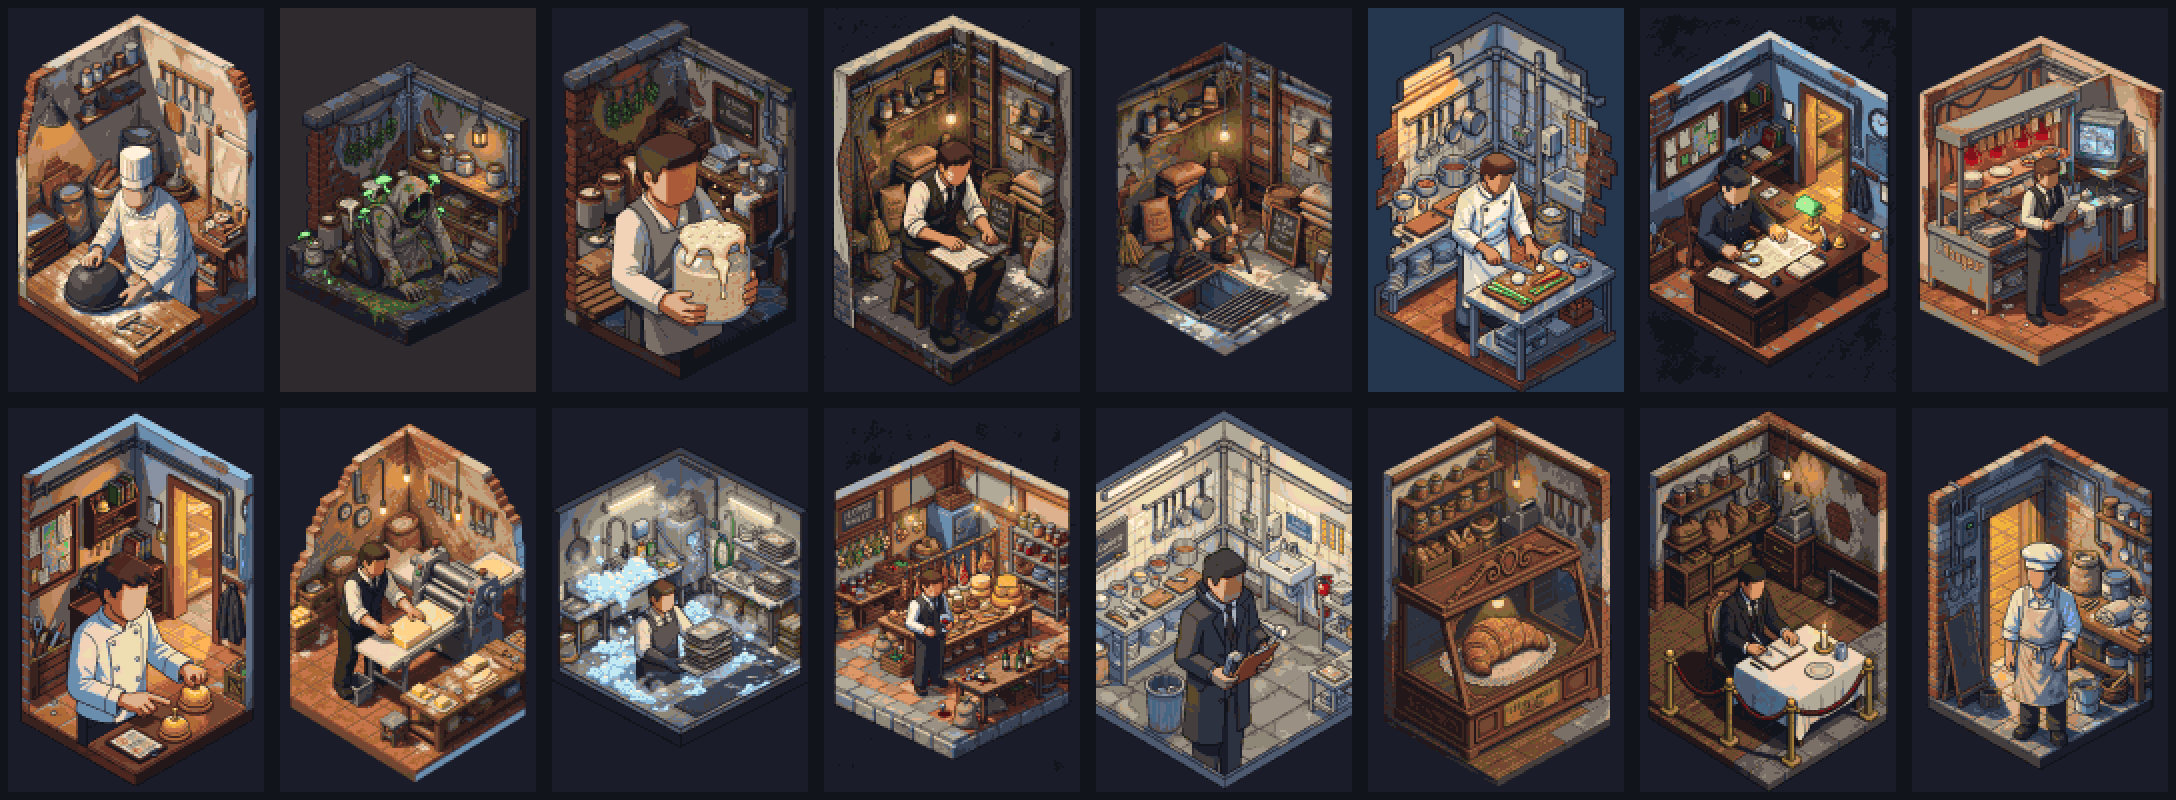
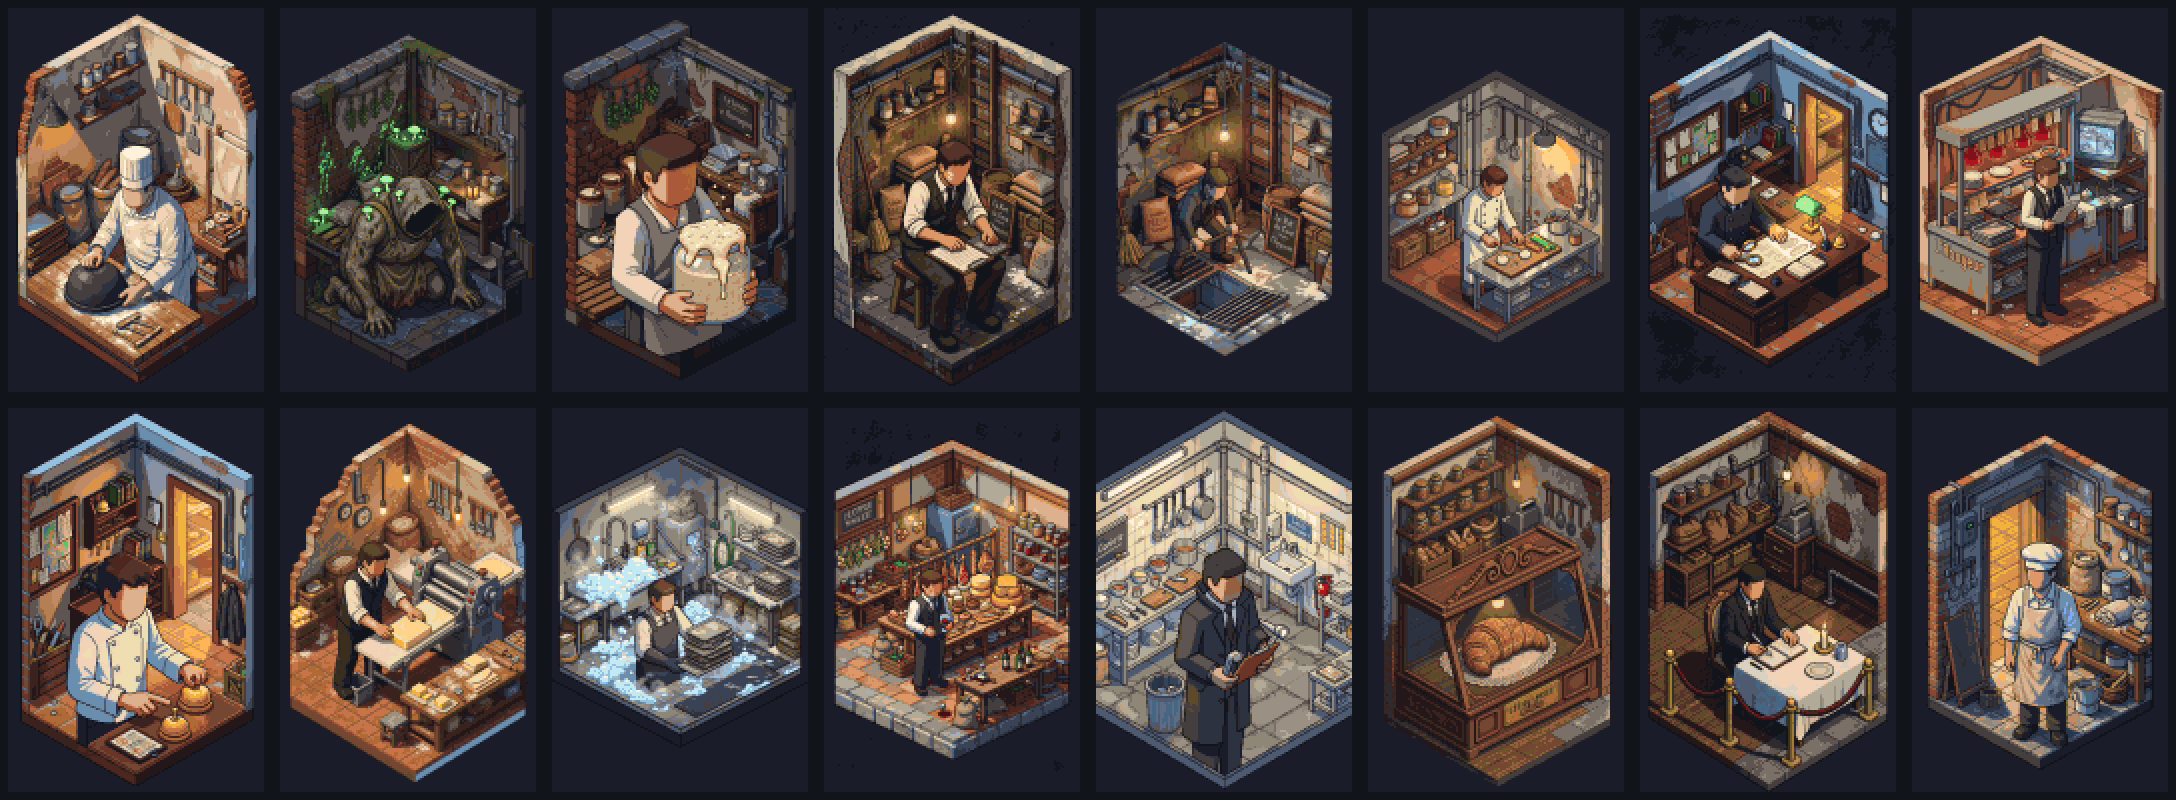
5M: retake the Champignon and Commis portraits and the mini-game cart
The two portraits sat on a grey or blue panel beside the others' navy
void, and mini_cart had come out as a shelf rack. Six images and one
background removal, 16 credits; CREDITS and MANIFEST rows follow the
new picks.

Claude-Session: https://claude.ai/code/session_015SVV6Sn4uMDbqFY4efdd72

Changed region(s): [[0.625, 0.0, 0.75, 0.5], [0.125, 0.0312, 0.25, 0.4688]]

diff --git a/assets/source/MANIFEST.md b/assets/source/MANIFEST.md
@@ -62,7 +62,7 @@ mirrors each one so an export in this repo can always be traced to its master. K
[8 lines of base64/hex data omitted]
@@ -71,11 +71,11 @@ mirrors each one so an export in this repo can always be traced to its master. K
[13 lines of base64/hex data omitted]

diff --git a/CREDITS.md b/CREDITS.md
@@ -78,7 +78,7 @@ under CC0 1.0** (`LICENSES/CC0-1.0.txt`, `docs/DECISIONS.md` A17). Hand-made ori
 | `assets/onub/onub_mini-0.png`                                               | Higgsfield (Plus plan, paid)                                    | `generate_image`, `flux_3_image`, 1:1, 2k, style refs                                               | 2026-10-18 | `9cec7aed-9b3a-4b9b-bd40-fcf4f08de478` | pending `higgsfield-library-sync`      | 5M batch `onub_mini#mini_crate_butter`, T5 (mini_crate_butter); cutout `8f191179`; pixel finish                                                                    |
 | `assets/onub/onub_mini-0.png`                                               | Higgsfield (Plus plan, paid)                                    | `generate_image`, `flux_3_image`, 1:1, 2k, style refs                                               | 2026-10-18 | `23c65b38-e728-47cf-9ccd-d49ba4456c78` | pending `higgsfield-library-sync`      | 5M batch `onub_mini#mini_crate_milk`, T5 (mini_crate_milk); cutout `4acbb627`; pixel finish                                                                        |
 | `assets/onub/onub_mini-0.png`                                               | Higgsfield (Plus plan, paid)                                    | `generate_image`, `flux_3_image`, 1:1, 2k, style refs                                               | 2026-10-18 | `9b14fddf-9862-4d43-9163-eb8500ddd1a1` | pending `higgsfield-library-sync`      | 5M batch `onub_mini#mini_crate_eggs`, T5 (mini_crate_eggs); cutout `31f7e0d0`; pixel finish                                                                        |
-| `assets/onub/onub_mini-0.png`                                               | Higgsfield (Plus plan, paid)                                    | `generate_image`, `flux_3_image`, 1:1, 2k, style refs                                               | 2026-10-18 | `a72d341d-19c1-4e77-b6ec-02e8169f62de` | pending `higgsfield-library-sync`      | 5M batch `onub_mini#mini_cart`, T5 (mini_cart); cutout `ddcf95a8`; pixel finish                                                                                    |
+| `assets/onub/onub_mini-0.png`                                               | Higgsfield (Plus plan, paid)                                    | `generate_image`, `flux_3_image`, 1:1, 2k, style refs                                               | 2026-10-18 | `9b8f28aa-10bb-4e85-b654-1ff16c7e6dd9` | pending `higgsfield-library-sync`      | 5M batch `onub_mini#mini_cart`, T5 (mini_cart); cutout `c25a5114`; pixel finish                                                                                    |
 | `assets/onub/onub_mini-0.png`                                               | Higgsfield (Plus plan, paid)                                    | `generate_image`, `flux_3_image`, 1:1, 2k, style refs                                               | 2026-10-18 | `962ef96c-7c1d-4e88-b03a-9ddecb0d3914` | pending `higgsfield-library-sync`      | 5M batch `onub_mini#mini_sack`, T5 (mini_sack); cutout `1af9db49`; pixel finish                                                                                    |
 | `assets/onub/onub_mini-0.png`                                               | Higgsfield (Plus plan, paid)                                    | `generate_image`, `flux_3_image`, 1:1, 2k, style refs                                               | 2026-10-18 | `5a3de87c-89e7-4784-b6a9-0b3746745eb6` | pending `higgsfield-library-sync`      | 5M batch `onub_mini#mini_bucket`, T5 (mini_bucket); cutout `1f8169fb`; pixel finish                                                                                |
 | `assets/onub/onub_mini-0.png`                                               | Higgsfield (Plus plan, paid)                                    | `generate_image`, `flux_3_image`, 1:1, 2k, style refs                                               | 2026-10-18 | `7a6eac16-c92b-4d6d-9ce5-2b0627c88707` | pending `higgsfield-library-sync`      | 5M batch `onub_mini#mini_bowl`, T5 (mini_bowl); cutout `0574392e`; pixel finish                                                                                    |
@@ -87,11 +87,11 @@ under CC0 1.0** (`LICENSES/CC0-1.0.txt`, `docs/DECISIONS.md` A17). Hand-made ori
 | `assets/onub/onub_mini-0.png`                                               | Higgsfield (Plus plan, paid)                                    | `generate_image`, `flux_3_image`, 1:1, 2k, style refs                                               | 2026-10-18 | `7328c7ae-6272-4809-940f-598220d1f92e` | pending `higgsfield-library-sync`      | 5M batch `onub_mini#mini_log`, T5 (mini_log); cutout `11b411a5`; pixel finish                                                                                      |
 | `assets/onub/onub_mini-0.png`                                               | Higgsfield (Plus plan, paid)                                    | `generate_image`, `flux_3_image`, 1:1, 2k, style refs                                               | 2026-10-18 | `5b309cb7-7e0b-4385-b7ce-4ce16db6e6c3` | pending `higgsfield-library-sync`      | 5M batch `onub_mini#mini_oven`, T5 (mini_oven); cutout `0d6b3c7d`; pixel finish                                                                                    |
 | `assets/onub/portraits/onub_portrait_boulanger.webp`                        | Higgsfield (Plus plan, paid)                                    | `generate_image`, `flux_3_image`, 2:3, 2k, style refs                                               | 2026-10-18 | `59c64b4f-7f7c-4344-ba55-511f15d4adbf` | pending `higgsfield-library-sync`      | 5M batch `onub_portrait_boulanger`, T4; pixel finish                                                                                                               |
-| `assets/onub/portraits/onub_portrait_champignon.webp`                       | Higgsfield (Plus plan, paid)                                    | `generate_image`, `flux_3_image`, 2:3, 2k, style refs                                               | 2026-10-18 | `a80e75e5-1cfb-4bf1-a970-9393261c892e` | pending `higgsfield-library-sync`      | 5M batch `onub_portrait_champignon`, T4; pixel finish                                                                                                              |
+| `assets/onub/portraits/onub_portrait_champignon.webp`                       | Higgsfield (Plus plan, paid)                                    | `generate_image`, `flux_3_image`, 2:3, 2k, style refs                                               | 2026-10-18 | `197566f2-b759-491f-a57b-970881121c79` | pending `higgsfield-library-sync`      | 5M batch `onub_portrait_champignon`, T4; pixel finish                                                                                                              |
 | `assets/onub/portraits/onub_portrait_levain.webp`                           | Higgsfield (Plus plan, paid)                                    | `generate_image`, `flux_3_image`, 2:3, 2k, style refs                                               | 2026-10-18 | `85fead9b-3273-4359-a68d-ba1c125591ac` | pending `higgsfield-library-sync`      | 5M batch `onub_portrait_levain`, T4; pixel finish                                                                                                                  |
 | `assets/onub/portraits/onub_portrait_apprenti.webp`                         | Higgsfield (Plus plan, paid)                                    | `generate_image`, `flux_3_image`, 2:3, 2k, style refs                                               | 2026-10-18 | `a00ec5c6-8815-458c-99f6-d99d656d2cf2` | pending `higgsfield-library-sync`      | 5M batch `onub_portrait_apprenti`, T4; pixel finish                                                                                                                |
 | `assets/onub/portraits/onub_portrait_ratDeCave.webp`                        | Higgsfield (Plus plan, paid)                                    | `generate_image`, `flux_3_image`, 2:3, 2k, style refs                                               | 2026-10-18 | `c0f1a865-fe96-40bd-9bef-3af3e692b37b` | pending `higgsfield-library-sync`      | 5M batch `onub_portrait_ratDeCave`, T4; pixel finish                                                                                                               |
-| `assets/onub/portraits/onub_portrait_commis.webp`                           | Higgsfield (Plus plan, paid)                                    | `generate_image`, `flux_3_image`, 2:3, 2k, style refs                                               | 2026-10-18 | `3178245d-f3ef-470f-be65-c3cb1701d8a4` | pending `higgsfield-library-sync`      | 5M batch `onub_portrait_commis`, T4; pixel finish                                                                                                                  |
+| `assets/onub/portraits/onub_portrait_commis.webp`                           | Higgsfield (Plus plan, paid)                                    | `generate_image`, `flux_3_image`, 2:3, 2k, style refs                                               | 2026-10-18 | `a0c6fc1d-3f53-4bc9-8827-83e07fa34aae` | pending `higgsfield-library-sync`      | 5M batch `onub_portrait_commis`, T4; pixel finish                                                                                                                  |
 | `assets/onub/portraits/onub_portrait_chef.webp`                             | Higgsfield (Plus plan, paid)                                    | `generate_image`, `flux_3_image`, 2:3, 2k, style refs                                               | 2026-10-18 | `bfd7c21e-728a-4109-8d28-d1bb0e83381a` | pending `higgsfield-library-sync`      | 5M batch `onub_portrait_chef`, T4; pixel finish                                                                                                                    |
 | `assets/onub/portraits/onub_portrait_aboyeur.webp`                          | Higgsfield (Plus plan, paid)                                    | `generate_image`, `flux_3_image`, 2:3, 2k, style refs                                               | 2026-10-18 | `6ed398af-93c6-4179-8f09-3f5724484ad3` | pending `higgsfield-library-sync`      | 5M batch `onub_portrait_aboyeur`, T4; pixel finish                                                                                                                 |
 | `assets/onub/portraits/onub_portrait_sousChef.webp`                         | Higgsfield (Plus plan, paid)                                    | `generate_image`, `flux_3_image`, 2:3, 2k, style refs                                               | 2026-10-18 | `23fe1055-c9d0-4665-a874-4aae4d0ef834` | pending `higgsfield-library-sync`      | 5M batch `onub_portrait_sousChef`, T4; pixel finish                                                                                                                |

diff --git a/docs/SESSIONS.md b/docs/SESSIONS.md
@@ -2043,3 +2043,8 @@ tracks that none of them holds.
   the client filters by mode (5C, 5D, 5I) the ONUB images would load in the main mode too; 5C and 5D draw
   `mini_fire` from `mini_oven/0..3`. 5K: please move `frame` from `build_loft.py` into `static_common.py` and drop the
   loft step of `save_masters.py`, after which `build_loft.py` can be deleted.
+- **Retakes (2026-10-18, on the orchestrator's round-5 budget of 300 credits for 5M)**: 6 more images and 1 more
+  background removal, 16 credits (balance 3010.31 to 2994.31). The Champignon and Commis portraits sat on a grey or
+  blue panel against the other portraits' navy void, and `mini_cart` had come out as a three-shelf rack; the new picks
+  (`retryNote` and `retrySubject` in `batches/5M.json`) replace their CREDITS and MANIFEST rows. Every other pick held
+  up on the review sheets, so the rest of the share stays unspent; the oven waits on the owner's pick.
